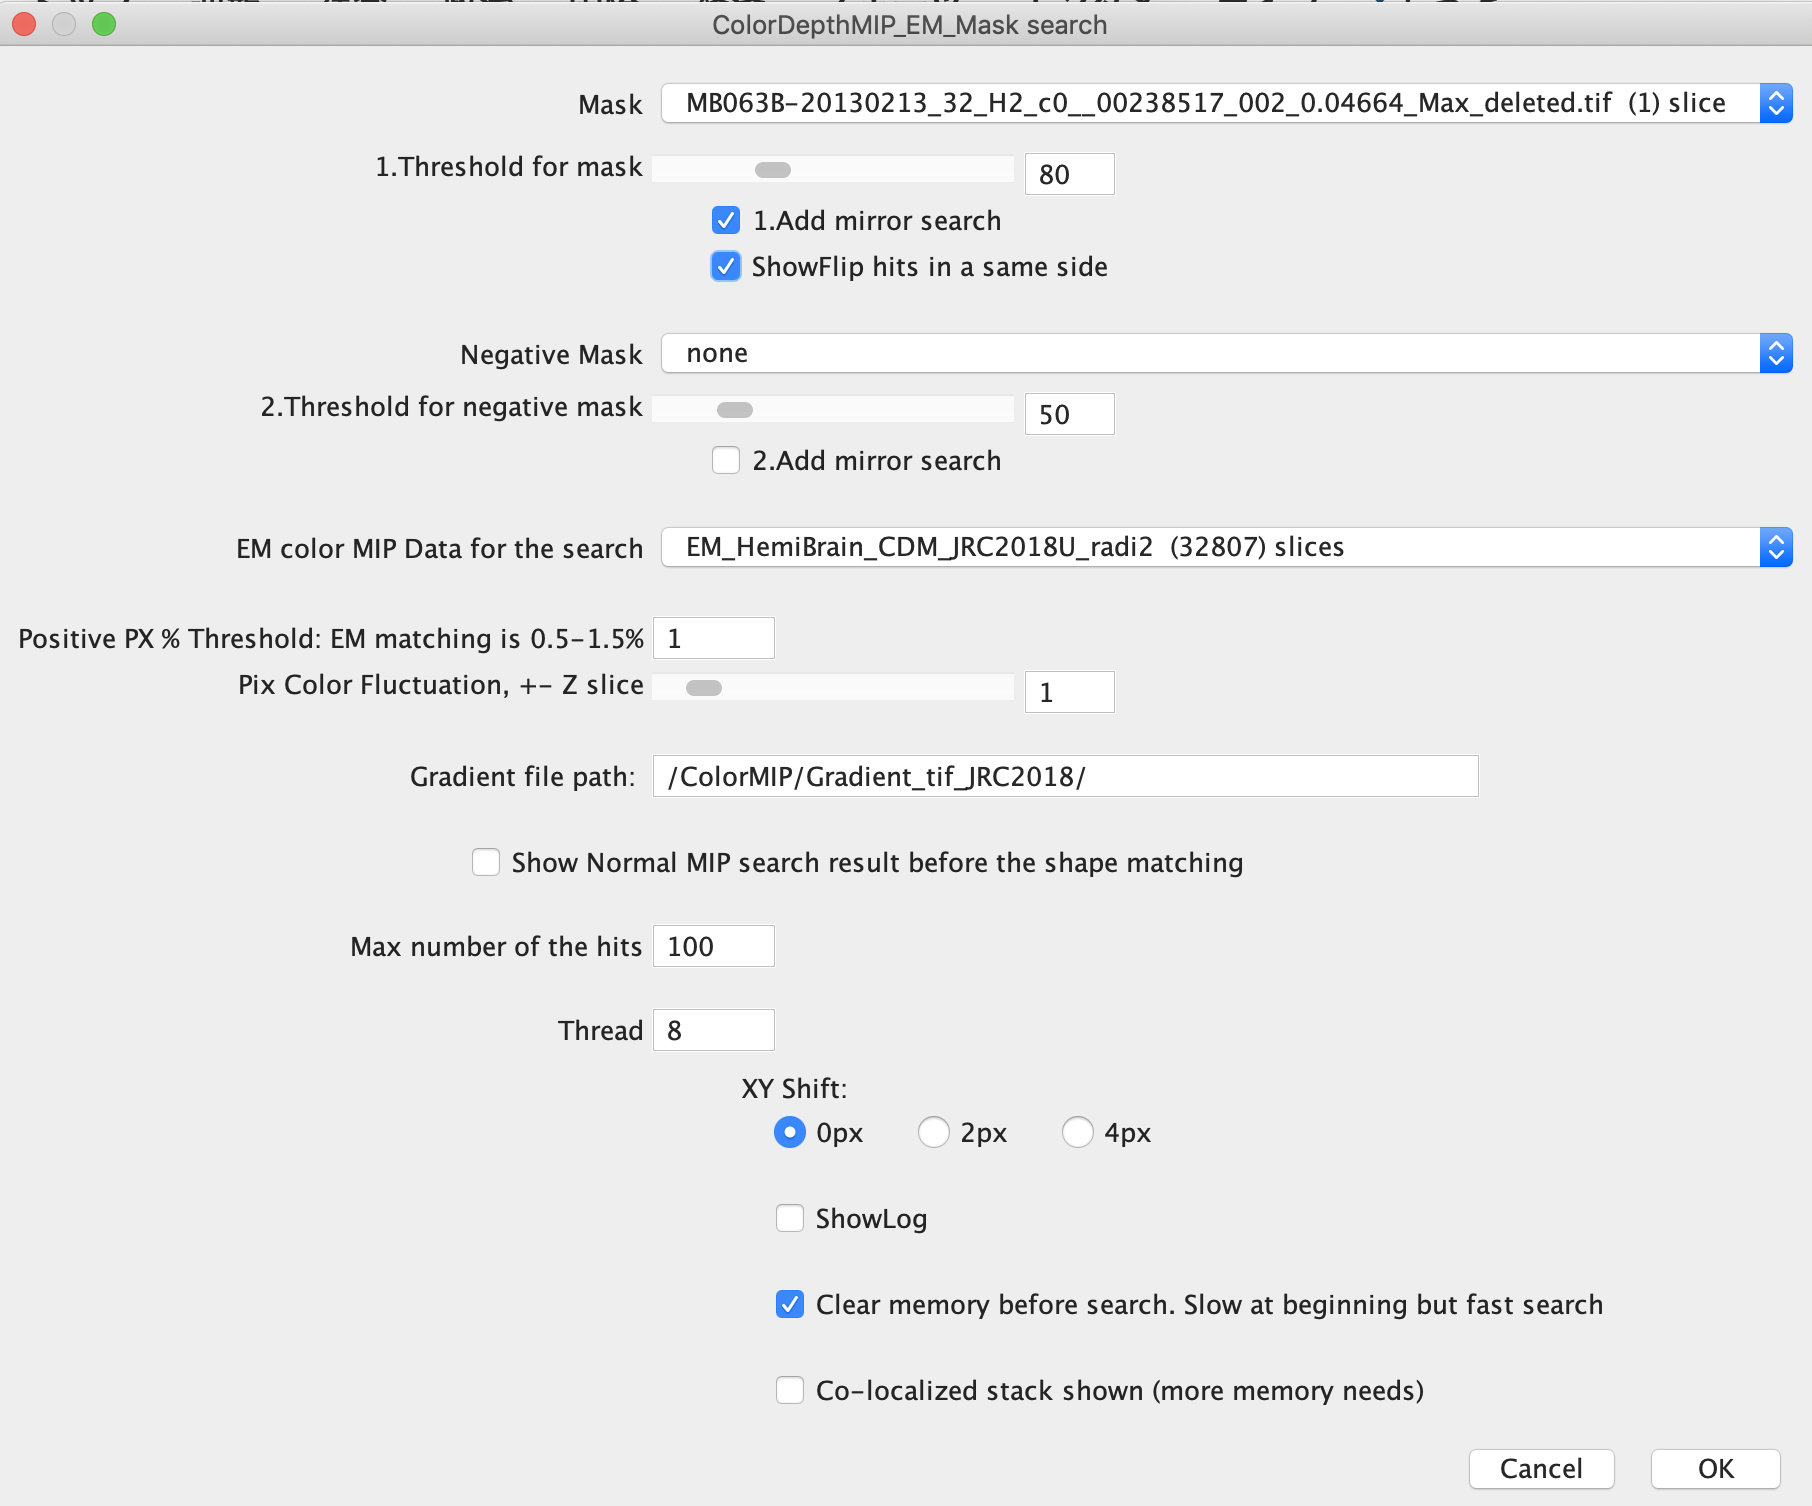
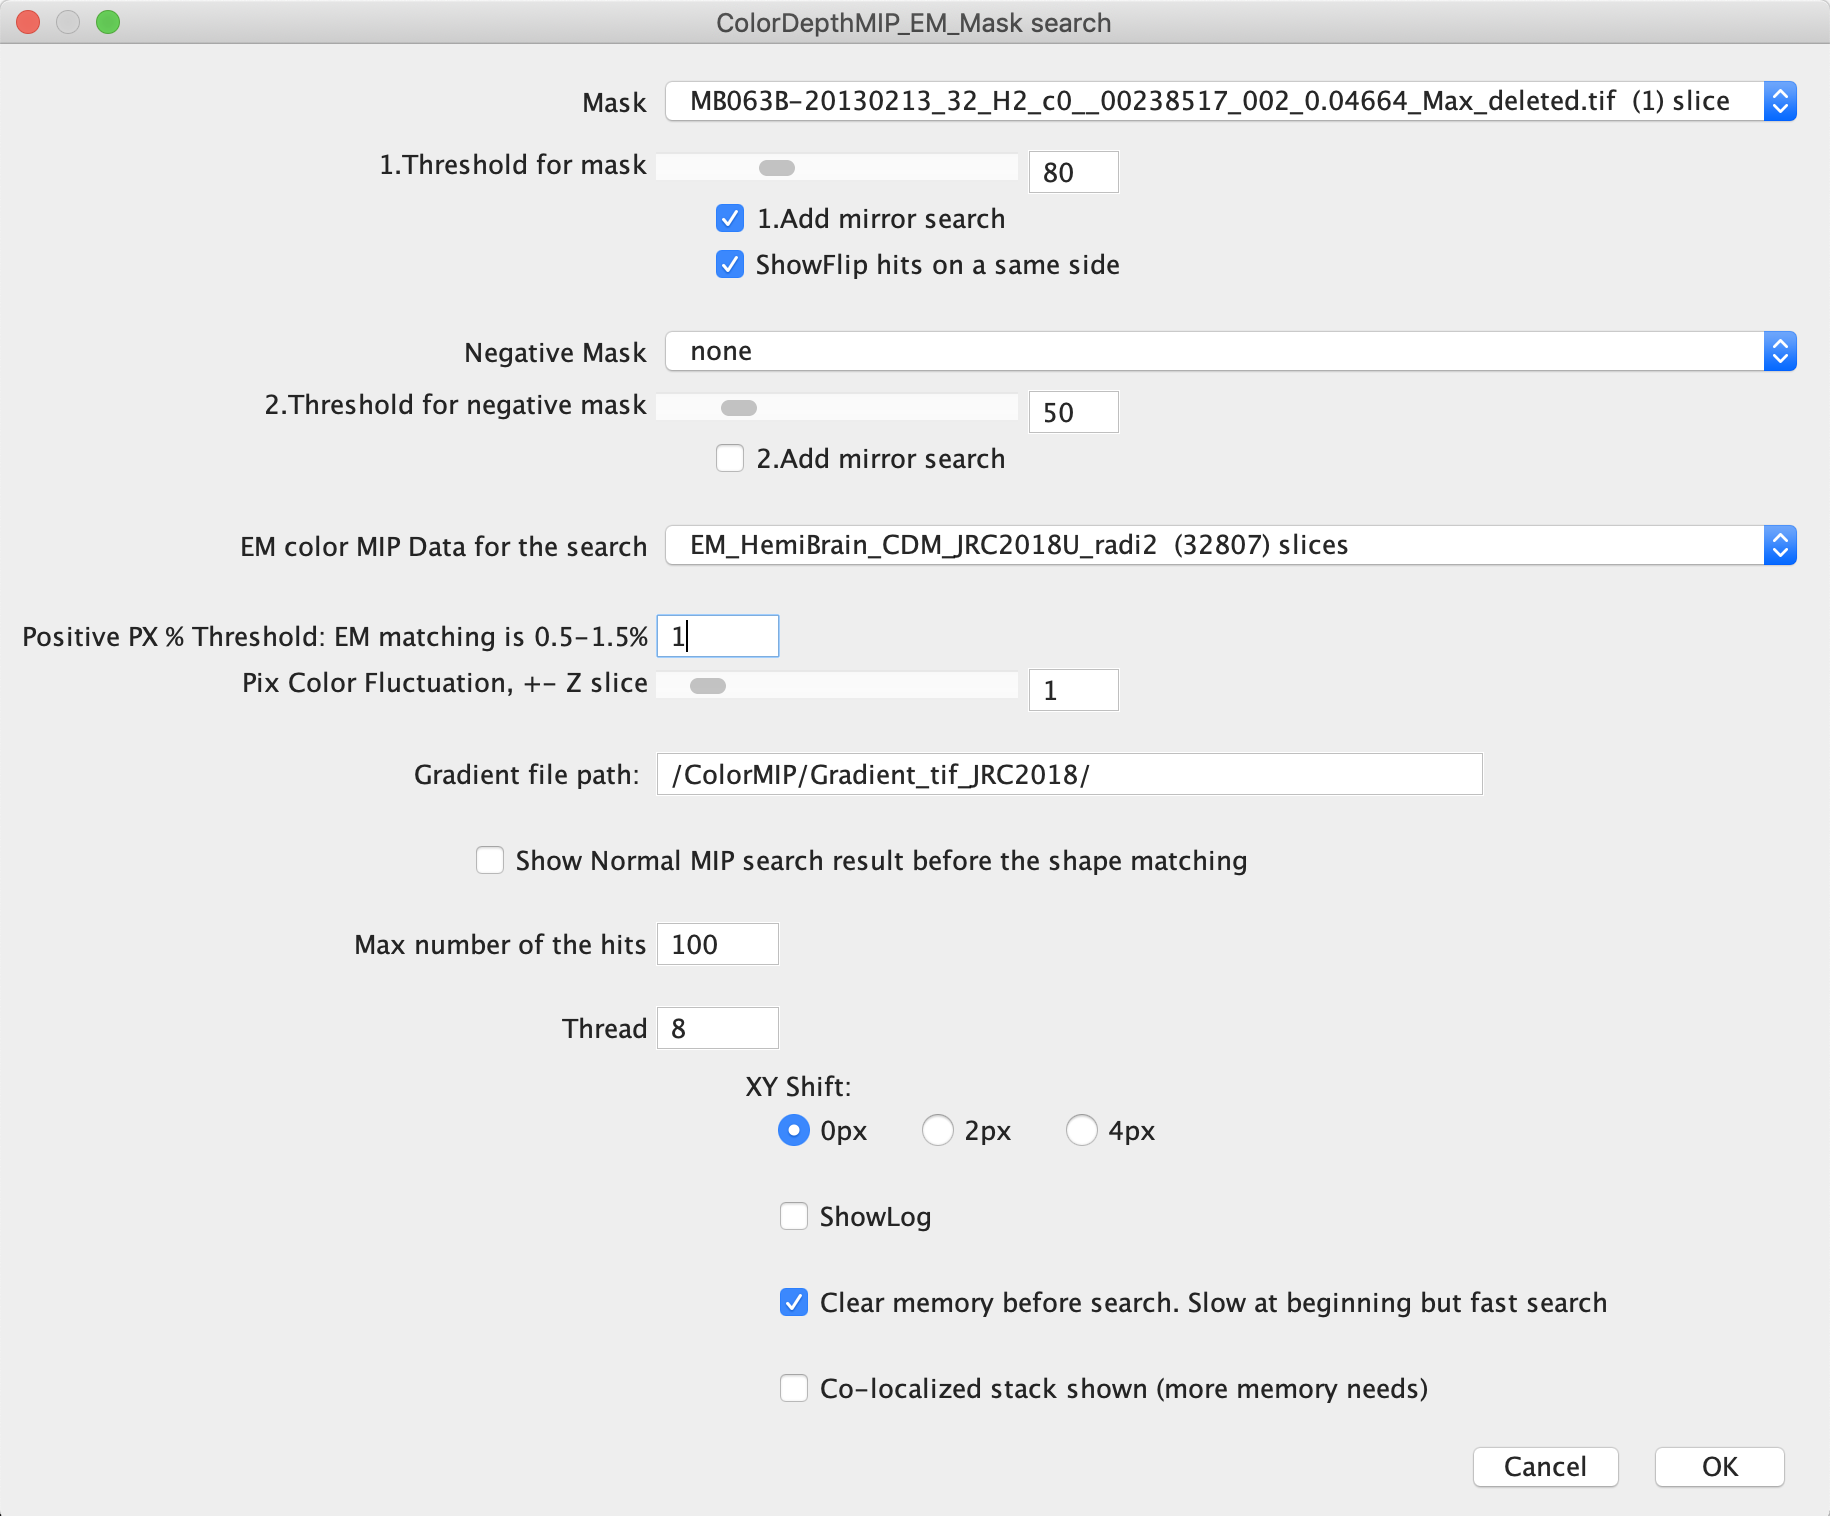
Fiji Plugin

diff --git a/EM_MIP_Mask_Search.java b/EM_MIP_Mask_Search.java
@@ -225,7 +225,7 @@ public class EM_MIP_Mask_Search implements PlugInFilter
 		gd.setInsets(0, 340, 0);
 		gd.addCheckbox("1.Add mirror search", mirror_maskE);
 		gd.setInsets(0, 340, 0);
-		gd.addCheckbox("ShowFlip hits in a same side", showFlip);
+		gd.addCheckbox("ShowFlip hits on a same side", showFlip);
 		
 		gd.setInsets(20, 0, 0);
 		gd.addChoice("Negative Mask", negtitles, negtitles[NegMaskE]); //Negative MaskE
